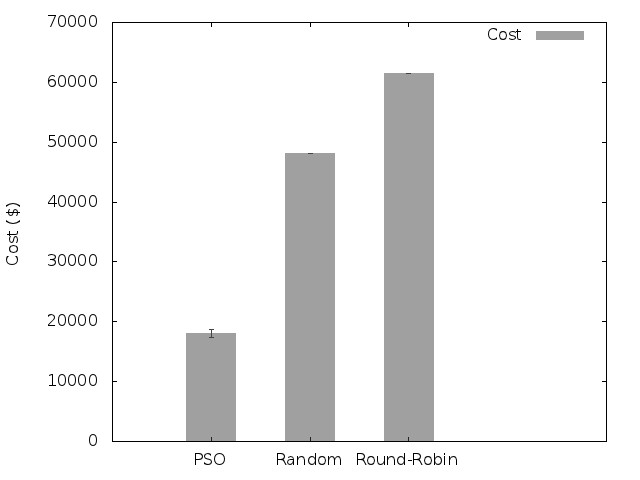
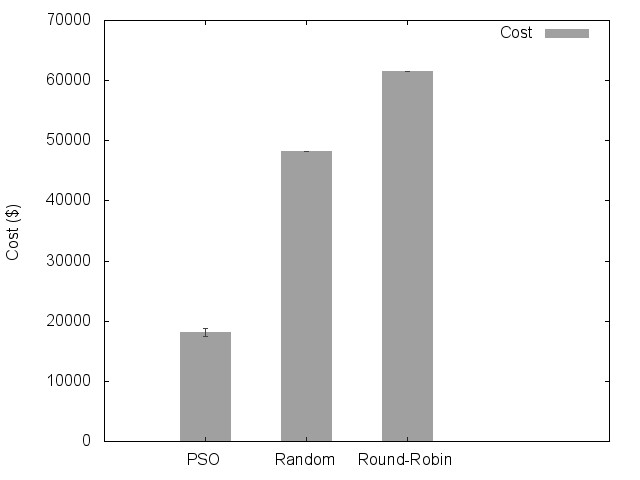
New results for pcp on chimera1 and montage. Graphs reploted

diff --git a/src/br/unicamp/ic/wfscheduler/impl/pcp/PartialCriticalPathsScheduler.java b/src/br/unicamp/ic/wfscheduler/impl/pcp/PartialCriticalPathsScheduler.java
@@ -246,7 +246,7 @@ public class PartialCriticalPathsScheduler implements IScheduler {
 	
 
 	private double getFinishTime(Task t, Assignment assignment) {
-		double et = assignment.getStartTime()+(t.getLength()/assignment.getHost().getProcessingSpeed())+(t.getLength()/bandwidth);
+		double et = assignment.getStartTime()+(t.getLength()/assignment.getHost().getProcessingSpeed())+(t.getOutputSize()/bandwidth);
 		return et;
 	}
 
@@ -402,23 +402,23 @@ public class PartialCriticalPathsScheduler implements IScheduler {
 		
 		HashMap<Task, Assignment> currentSchedulle = new HashMap<Task, Assignment>();
 		HashMap<Host, ArrayList<TimeSlot>> currentTimeSlots = (HashMap<Host, ArrayList<TimeSlot>>) timeSlots.clone();
-//		System.out.println("-----------------------------------------------------");
-//		System.out.println("CRITICAL PATH: "+printPath(criticalPath));
-//		System.out.println("-----------------------------------------------------");
+		System.out.println("-----------------------------------------------------");
+		System.out.println("CRITICAL PATH: "+printPath(criticalPath));
+		System.out.println("-----------------------------------------------------");
 //		System.out.println(" Task              Host ");
 //		System.out.println("------------------------");
 		SchedulleResponse sr = SchedulePathRecursive(criticalPath, currentSchedulle, currentTimeSlots);
 		if (sr.isSuccessful()){
 //			System.out.println("------------------------");
-//			System.out.println("CRITICAL PATH ESCALONADO");
-//			System.out.println(printSchedule(sr.getSchedulle()));
+			System.out.println("CRITICAL PATH ESCALONADO");
+			System.out.println(printSchedule(sr.getSchedulle()));
 			for (Iterator<Task> iterator = criticalPath.iterator(); iterator.hasNext();) {
 				Task task = (Task) iterator.next();
 				schedulings.put(task, sr.getSchedulle().get(task));
 			}
 			updateChildrenESTs(criticalPath);
 		}else{
-//			System.out.println("SCHEDDULE FAIL! TASK: "+sr.getFailTask().getLength());
+			System.out.println("SCHEDDULE FAIL! TASK: "+sr.getFailTask().getLength());
 		}
 		return sr;
 	}
@@ -450,7 +450,8 @@ public class PartialCriticalPathsScheduler implements IScheduler {
 //					System.out.println("Schedule found! :"+printSchedule(sr.getSchedulle()));
 				}
 //				System.out.println("task "+t.getLength()+" Testing Schedule: ");
-				if(sr.getSchedulle()!=null){
+				if(sr.getSchedulle()!=null&&sr.isSuccessful()){
+
 					if(bestSchedulle==null){
 //						System.out.println("     best so far: "+printSchedule(sr.getSchedulle()));
 						bestSchedulle = (HashMap<Task, Assignment>) sr.getSchedulle().clone();					
@@ -469,7 +470,11 @@ public class PartialCriticalPathsScheduler implements IScheduler {
 			}
 		}
 //		System.out.println(" task "+t.getLength()+" retornando bs: "+calculaCusto(bestSchedulle));
-		sr.setSchedulle(bestSchedulle);
+		if(bestSchedulle!=null){
+			sr = new SchedulleResponse();
+			sr.setSuccessful(true);
+			sr.setSchedulle(bestSchedulle);
+		}
 		return sr;
 	}
 	
@@ -492,7 +497,6 @@ public class PartialCriticalPathsScheduler implements IScheduler {
 		
 		return s;
 	}
-	
 	private double computeSTconstraints(Task t, Host s,HashMap<Task, Assignment> currentSchedulle, HashMap<Host, ArrayList<TimeSlot>> ScheduletimeSlots) {
 		boolean found = false;
 		double minST = estimateStartTimeConstraints(t,s,currentSchedulle);
@@ -544,7 +548,9 @@ public class PartialCriticalPathsScheduler implements IScheduler {
 				if (maxEFT < eft) {
 					maxEFT = eft;
 				}
-			}else if(currentSchedulle.containsKey(parent)){
+			}
+			else
+				if(currentSchedulle.containsKey(parent)){
 				Assignment assignment = currentSchedulle.get(parent);
 				double eft = getFinishTime(parent,assignment);
 				if (maxEFT < eft) {
@@ -566,14 +572,14 @@ public class PartialCriticalPathsScheduler implements IScheduler {
 		int i = 0;
 		double et = t.getLength() / s.getProcessingSpeed();
 		ArrayList<Task> childrenOfT = childrenOf.get(t);
-		//ArrayList<Task> childrenOfT = lookForAllchildrenOfT(t);
 		while(sr.isSuccessful()&&i<childrenOfT.size()){
 		Task child = childrenOfT.get(i);
-		if (schedulings.containsKey(child)){						
+		if (schedulings.containsKey(child)){			
 			if((st+et+(t.getOutputSize()/bandwidth))>schedulings.get(child).getStartTime()){
 				sr.setFailTask(child);
 				sr.setSuggestedStartTime(st+et+(t.getOutputSize()/bandwidth));
 				sr.setSuccessful(false);
+				return sr;
 			}else{
 				sr.setSuccessful(true);
 			}
@@ -742,10 +748,10 @@ public class PartialCriticalPathsScheduler implements IScheduler {
 			Task parent = (Task) iterator.next();
 			if(schedulings.containsKey(parent)){
 				if(schedulings.get(parent).getHost().getID()!=s.getID())
-				parentsTransferCost += parent.getLength()*transmissionCost;
+				parentsTransferCost += parent.getOutputSize()*transmissionCost;
 			} else if(currentSchedulle.containsKey(parent)){
 				if(currentSchedulle.get(parent).getHost().getID()!=s.getID())
-				parentsTransferCost += parent.getLength()*transmissionCost;
+				parentsTransferCost += parent.getOutputSize()*transmissionCost;
 			}
 		}
 		ArrayList<Task> children = childrenOf.get(t);
@@ -753,7 +759,7 @@ public class PartialCriticalPathsScheduler implements IScheduler {
 		for (Iterator<Task> iterator = children.iterator(); iterator.hasNext();) {
 			Task child = (Task) iterator.next();
 			if(schedulings.containsKey(child)){
-				childTransferCost+= t.getLength()*transmissionCost;
+				childTransferCost+= t.getOutputSize()*transmissionCost;
 			}
 		}
 		
